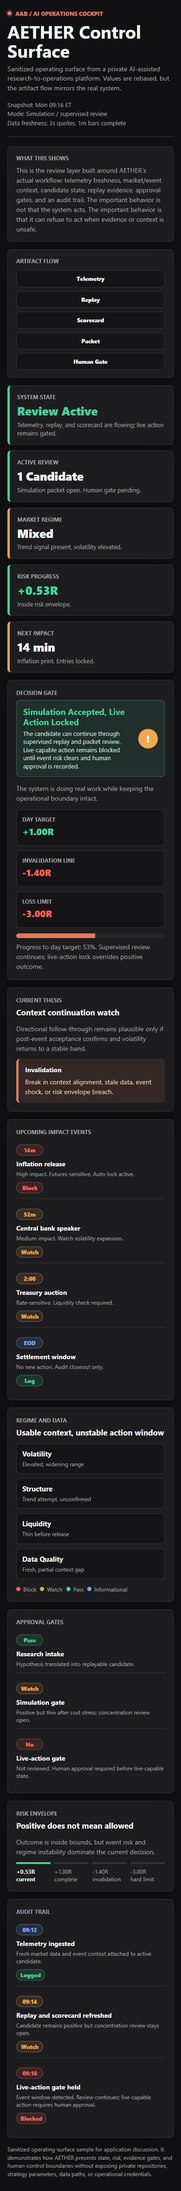
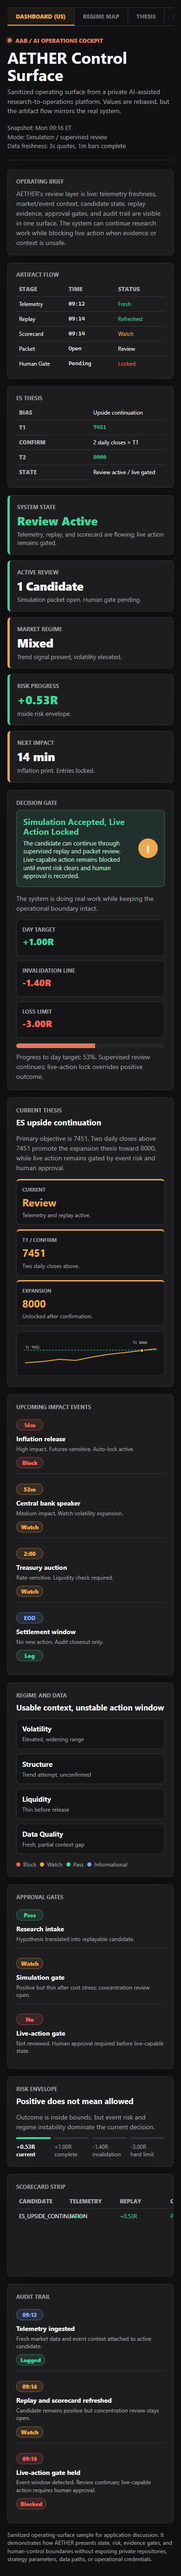
Terminalize AETHER control surface

diff --git a/control-surface.html b/control-surface.html
@@ -41,6 +41,32 @@
       padding: 28px 24px;
     }
 
+    .terminal-nav {
+      display: flex;
+      gap: 0;
+      overflow-x: auto;
+      border: 1px solid var(--line);
+      border-left: 0;
+      border-right: 0;
+      margin-bottom: 18px;
+      color: #6f6f74;
+      font-size: 12px;
+      font-weight: 800;
+      text-transform: uppercase;
+      white-space: nowrap;
+    }
+
+    .terminal-nav span {
+      padding: 10px 18px;
+      border-right: 1px solid var(--line);
+    }
+
+    .terminal-nav .active {
+      color: var(--amber);
+      border-bottom: 2px solid var(--amber);
+      background: rgba(240, 168, 79, 0.06);
+    }
+
     .topbar {
       display: flex;
       align-items: flex-start;
@@ -53,7 +79,7 @@
 
     h1 {
       margin: 0;
-      font-size: 38px;
+      font-size: 34px;
       line-height: 1.1;
       letter-spacing: 0;
     }
@@ -104,7 +130,7 @@
 
     .framing-strip {
       display: grid;
-      grid-template-columns: 1.35fr 1fr;
+      grid-template-columns: 1.15fr 1.05fr 0.8fr;
       gap: 16px;
       margin-bottom: 16px;
     }
@@ -169,6 +195,7 @@
     .panel {
       padding: 18px;
       min-height: 220px;
+      overflow: hidden;
     }
 
     .explain-panel {
@@ -208,6 +235,134 @@
       font-weight: 800;
       line-height: 1.2;
       text-align: center;
+    }
+
+    .artifact-table,
+    .terminal-table {
+      width: 100%;
+      border-collapse: collapse;
+      font-size: 12px;
+      line-height: 1.25;
+      table-layout: fixed;
+    }
+
+    .artifact-table th,
+    .artifact-table td,
+    .terminal-table th,
+    .terminal-table td {
+      padding: 8px 6px;
+      border-bottom: 1px solid var(--line);
+      text-align: left;
+      vertical-align: top;
+      overflow-wrap: anywhere;
+    }
+
+    .artifact-table th,
+    .terminal-table th {
+      color: var(--muted);
+      font-weight: 800;
+      text-transform: uppercase;
+    }
+
+    .artifact-table tr:last-child td,
+    .terminal-table tr:last-child td {
+      border-bottom: 0;
+    }
+
+    .mono {
+      font-family: "Cascadia Mono", "SFMono-Regular", Consolas, monospace;
+      font-variant-numeric: tabular-nums;
+    }
+
+    .scorecard-panel {
+      overflow-x: auto;
+    }
+
+    .scorecard-panel .terminal-table {
+      min-width: 760px;
+    }
+
+    .scorecard-panel .terminal-table th,
+    .scorecard-panel .terminal-table td {
+      overflow-wrap: normal;
+    }
+
+    .thesis-ladder {
+      display: grid;
+      grid-template-columns: repeat(3, minmax(0, 1fr));
+      gap: 10px;
+      margin-top: 14px;
+    }
+
+    .ladder-step {
+      border: 1px solid var(--line);
+      border-top: 3px solid var(--amber);
+      border-radius: 8px;
+      padding: 12px;
+      background: var(--surface-3);
+      min-height: 86px;
+    }
+
+    .ladder-step b {
+      display: block;
+      color: var(--muted);
+      font-size: 11px;
+      text-transform: uppercase;
+      margin-bottom: 8px;
+    }
+
+    .ladder-step strong {
+      display: block;
+      font-size: 22px;
+      line-height: 1.1;
+      color: var(--amber);
+    }
+
+    .ladder-step span {
+      display: block;
+      margin-top: 7px;
+      color: var(--muted);
+      font-size: 12px;
+      line-height: 1.35;
+    }
+
+    .sparkline {
+      width: 100%;
+      height: 96px;
+      margin-top: 12px;
+      border: 1px solid var(--line);
+      border-radius: 8px;
+      background: var(--surface-3);
+    }
+
+    .sparkline text {
+      fill: var(--muted);
+      font-family: "Cascadia Mono", "SFMono-Regular", Consolas, monospace;
+      font-size: 10px;
+    }
+
+    .sparkline .grid {
+      stroke: #303036;
+      stroke-width: 1;
+      stroke-dasharray: 2 5;
+    }
+
+    .sparkline .path {
+      fill: none;
+      stroke: var(--amber);
+      stroke-width: 2.5;
+    }
+
+    .sparkline .target {
+      stroke: var(--green);
+      stroke-width: 1.5;
+      stroke-dasharray: 5 4;
+    }
+
+    .sparkline .marker {
+      fill: var(--amber);
+      stroke: var(--bg);
+      stroke-width: 2;
     }
 
     .wide {
@@ -297,6 +452,10 @@
 
     .negative {
       color: var(--red);
+    }
+
+    .watch-text {
+      color: var(--amber);
     }
 
     .neutral {
@@ -546,7 +705,8 @@
       .main-grid,
       .metrics,
       .regime-grid,
-      .pipeline {
+      .pipeline,
+      .thesis-ladder {
         grid-template-columns: 1fr;
       }
 
@@ -566,6 +726,16 @@
 </head>
 <body>
   <main class="shell">
+    <nav class="terminal-nav" aria-label="AETHER navigation">
+      <span class="active">Dashboard (US)</span>
+      <span>Regime Map</span>
+      <span>Thesis</span>
+      <span>Scorecard</span>
+      <span>Packet</span>
+      <span>Audit</span>
+      <span>Cross-Asset</span>
+    </nav>
+
     <header class="topbar">
       <div>
         <div class="brandline">A&amp;B / AI operations cockpit</div>
@@ -581,18 +751,35 @@
 
     <section class="framing-strip" aria-label="Cold reviewer framing">
       <article class="panel explain-panel">
-        <span class="label">What This Shows</span>
-        <p>This is the review layer built around AETHER's actual workflow: telemetry freshness, market/event context, candidate state, replay evidence, approval gates, and an audit trail. The important behavior is not that the system acts. The important behavior is that it can refuse to act when evidence or context is unsafe.</p>
+        <span class="label">Operating Brief</span>
+        <p>AETHER's review layer is live: telemetry freshness, market/event context, candidate state, replay evidence, approval gates, and audit trail are visible in one surface. The system can continue research work while blocking live action when evidence or context is unsafe.</p>
       </article>
       <article class="panel explain-panel">
         <span class="label">Artifact Flow</span>
-        <div class="pipeline" aria-label="Telemetry to human approval artifact flow">
-          <span>Telemetry</span>
-          <span>Replay</span>
-          <span>Scorecard</span>
-          <span>Packet</span>
-          <span>Human Gate</span>
-        </div>
+        <table class="artifact-table" aria-label="Telemetry to human approval artifact flow">
+          <thead>
+            <tr><th>Stage</th><th>Time</th><th>Status</th></tr>
+          </thead>
+          <tbody>
+            <tr><td>Telemetry</td><td class="mono">09:12</td><td class="positive">Fresh</td></tr>
+            <tr><td>Replay</td><td class="mono">09:14</td><td class="positive">Refreshed</td></tr>
+            <tr><td>Scorecard</td><td class="mono">09:14</td><td class="watch-text">Watch</td></tr>
+            <tr><td>Packet</td><td class="mono">Open</td><td>Review</td></tr>
+            <tr><td>Human Gate</td><td class="mono">Pending</td><td class="negative">Locked</td></tr>
+          </tbody>
+        </table>
+      </article>
+      <article class="panel explain-panel">
+        <span class="label">ES Thesis</span>
+        <table class="terminal-table" aria-label="ES thesis levels">
+          <tbody>
+            <tr><th>Bias</th><td>Upside continuation</td></tr>
+            <tr><th>T1</th><td class="mono positive">7451</td></tr>
+            <tr><th>Confirm</th><td>2 daily closes &gt; T1</td></tr>
+            <tr><th>T2</th><td class="mono positive">8000</td></tr>
+            <tr><th>State</th><td>Review active / live gated</td></tr>
+          </tbody>
+        </table>
       </article>
     </section>
 
@@ -657,12 +844,34 @@
 
       <article class="panel">
         <span class="label">Current Thesis</span>
-        <h2>Context continuation watch</h2>
-        <p>Directional follow-through remains plausible only if post-event acceptance confirms and volatility returns to a stable band.</p>
-        <div class="thesis-box">
-          <b>Invalidation</b>
-          <p>Break in context alignment, stale data, event shock, or risk envelope breach.</p>
+        <h2>ES upside continuation</h2>
+        <p>Primary objective is 7451. Two daily closes above 7451 promote the expansion thesis toward 8000, while live action remains gated by event risk and human approval.</p>
+        <div class="thesis-ladder">
+          <div class="ladder-step">
+            <b>Current</b>
+            <strong>Review</strong>
+            <span>Telemetry and replay active.</span>
+          </div>
+          <div class="ladder-step">
+            <b>T1 / Confirm</b>
+            <strong>7451</strong>
+            <span>Two daily closes above.</span>
+          </div>
+          <div class="ladder-step">
+            <b>Expansion</b>
+            <strong>8000</strong>
+            <span>Unlocked after confirmation.</span>
+          </div>
         </div>
+        <svg class="sparkline" viewBox="0 0 420 96" role="img" aria-label="Sanitized ES thesis sparkline">
+          <line class="grid" x1="20" y1="68" x2="400" y2="68"></line>
+          <line class="grid" x1="20" y1="42" x2="400" y2="42"></line>
+          <line class="target" x1="20" y1="38" x2="400" y2="38"></line>
+          <text x="24" y="34">T1 7451</text>
+          <text x="330" y="20">T2 8000</text>
+          <path class="path" d="M24 74 L76 70 L122 64 L168 67 L212 58 L260 50 L306 45 L356 39 L398 34"></path>
+          <circle class="marker" cx="356" cy="39" r="5"></circle>
+        </svg>
       </article>
 
       <article class="panel">
@@ -769,6 +978,34 @@
           <div class="risk-step">-1.40R<br>invalidation</div>
           <div class="risk-step">-3.00R<br>hard limit</div>
         </div>
+      </article>
+
+      <article class="panel full scorecard-panel">
+        <span class="label">Scorecard Strip</span>
+        <table class="terminal-table" aria-label="AETHER candidate scorecard strip">
+          <thead>
+            <tr>
+              <th>Candidate</th>
+              <th>Telemetry</th>
+              <th>Replay</th>
+              <th>Cost Stress</th>
+              <th>Concentration</th>
+              <th>Packet</th>
+              <th>Live Gate</th>
+            </tr>
+          </thead>
+          <tbody>
+            <tr>
+              <td>ES_UPSIDE_CONTINUATION</td>
+              <td class="positive">Fresh</td>
+              <td class="positive">+0.53R</td>
+              <td class="positive">Pass</td>
+              <td class="watch-text">Watch</td>
+              <td>Open</td>
+              <td class="negative">Locked</td>
+            </tr>
+          </tbody>
+        </table>
       </article>
 
       <article class="panel full">
